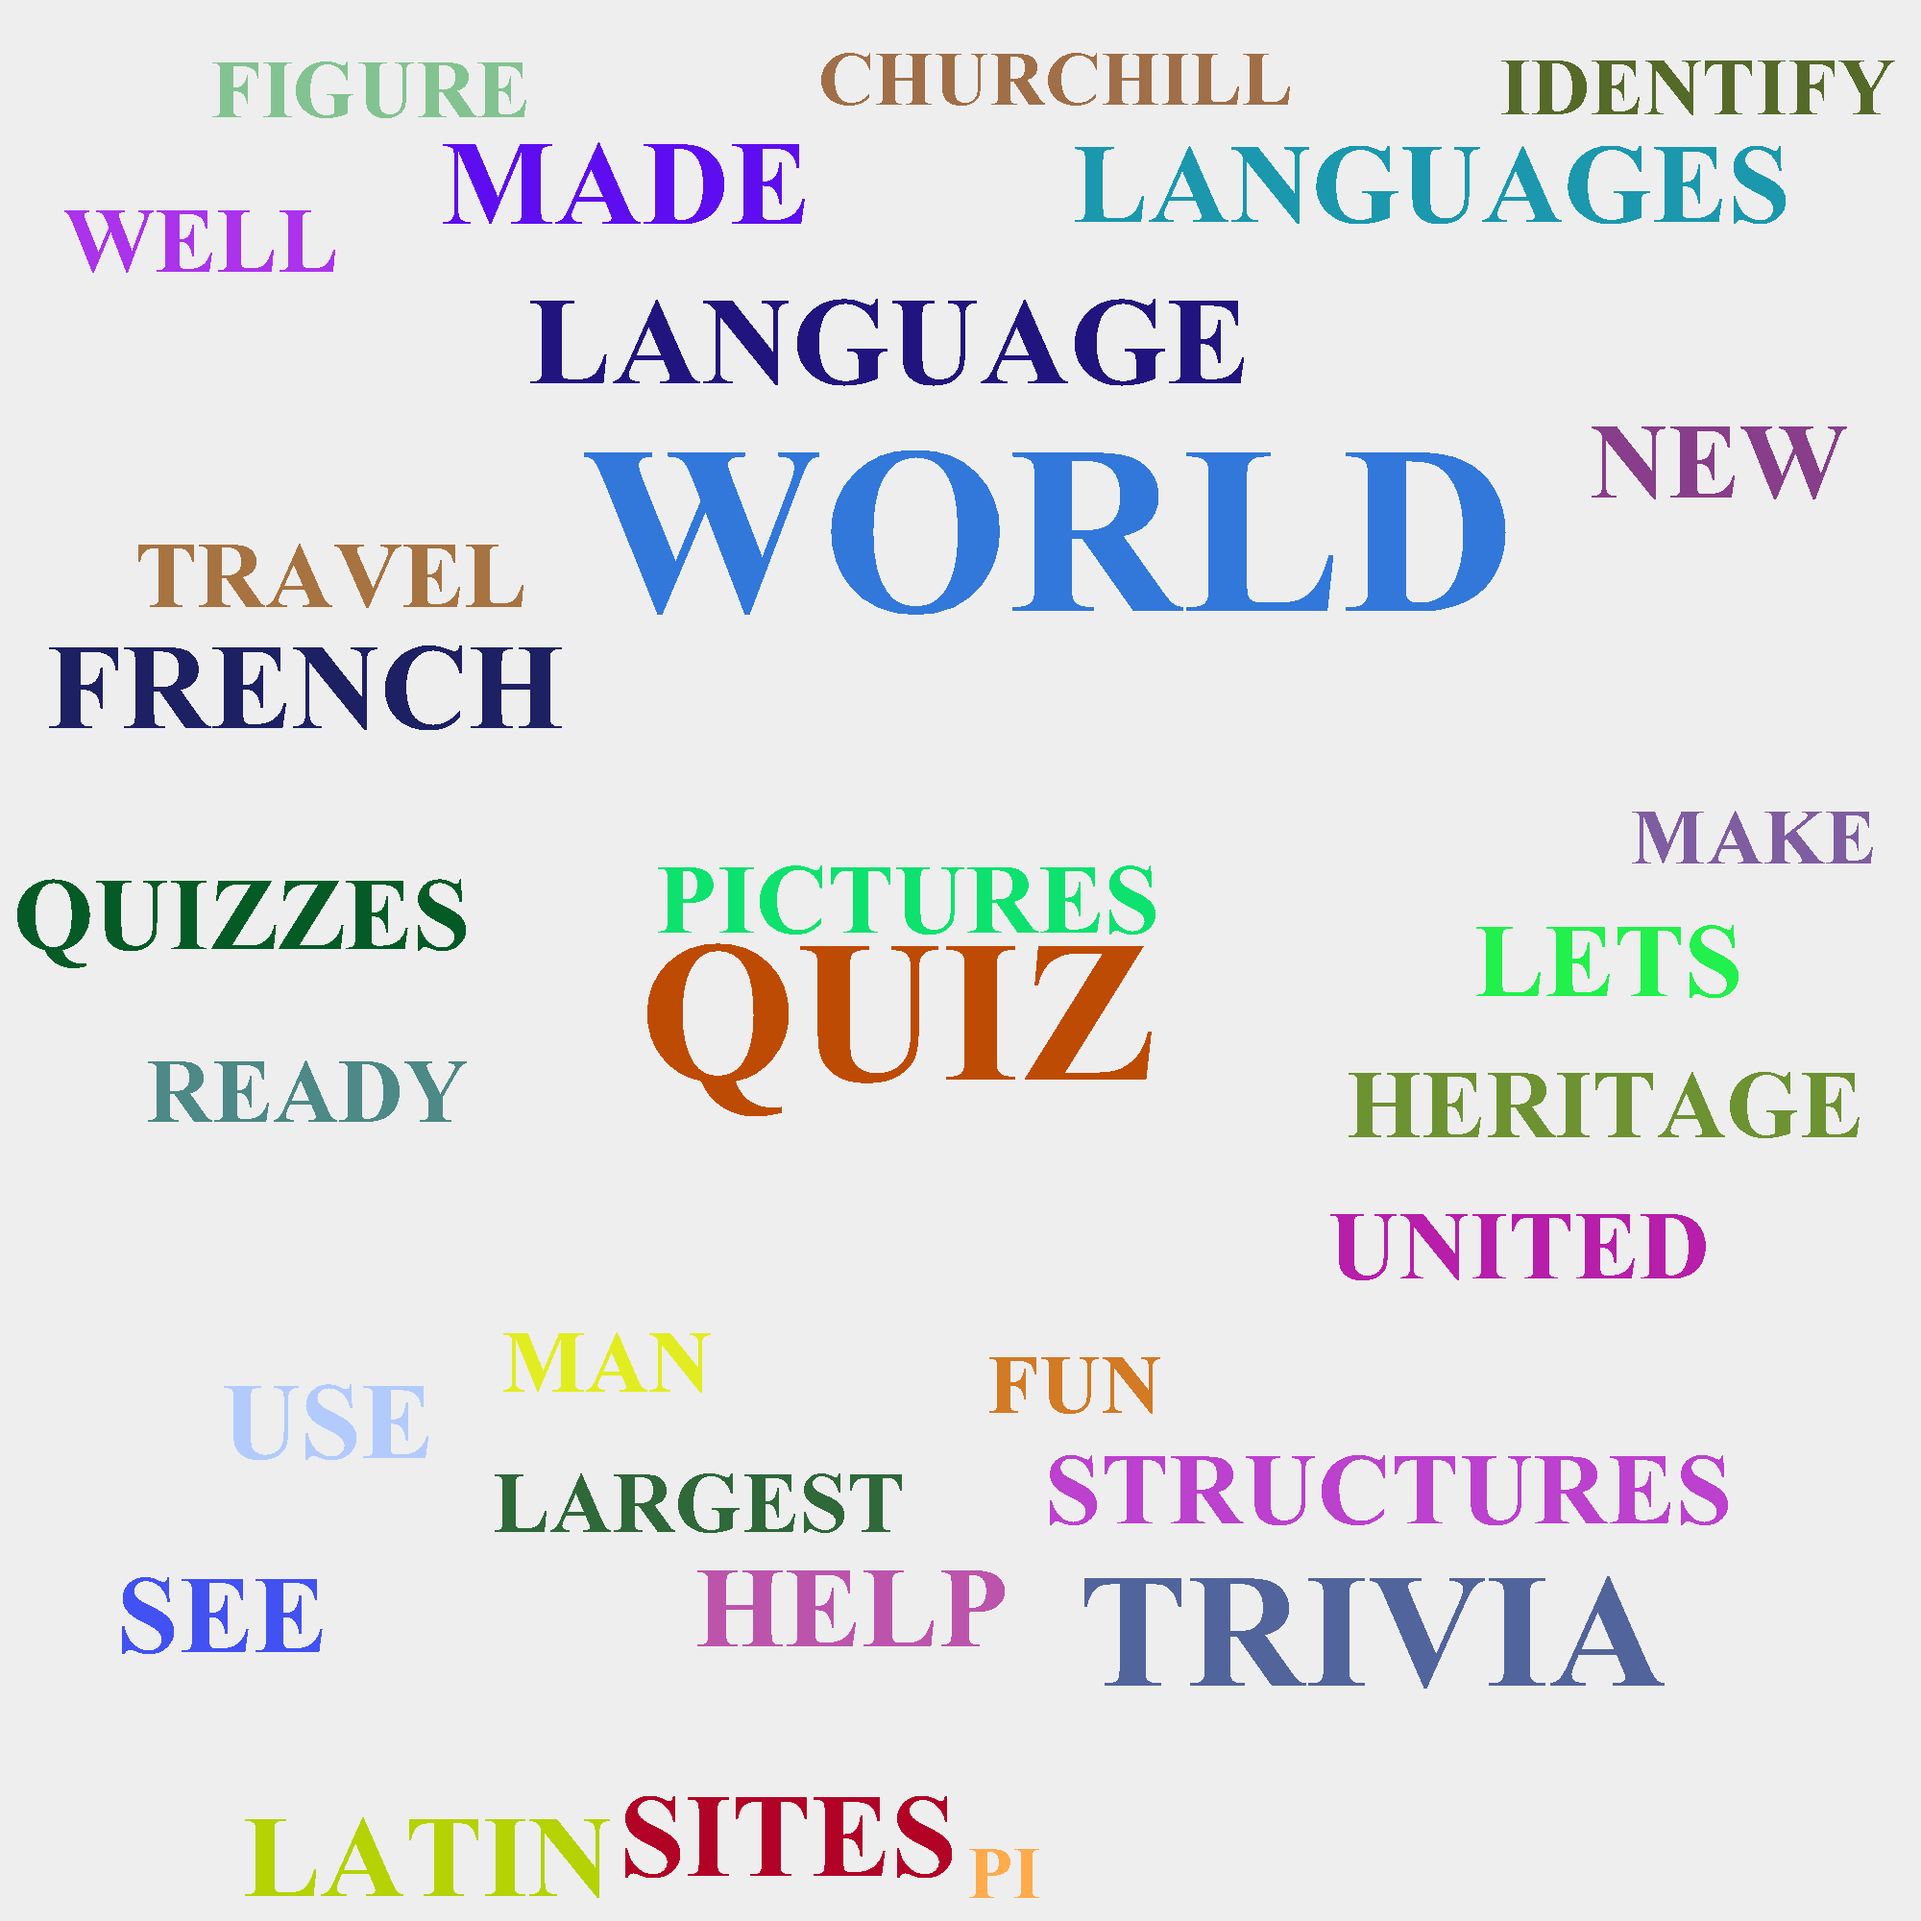
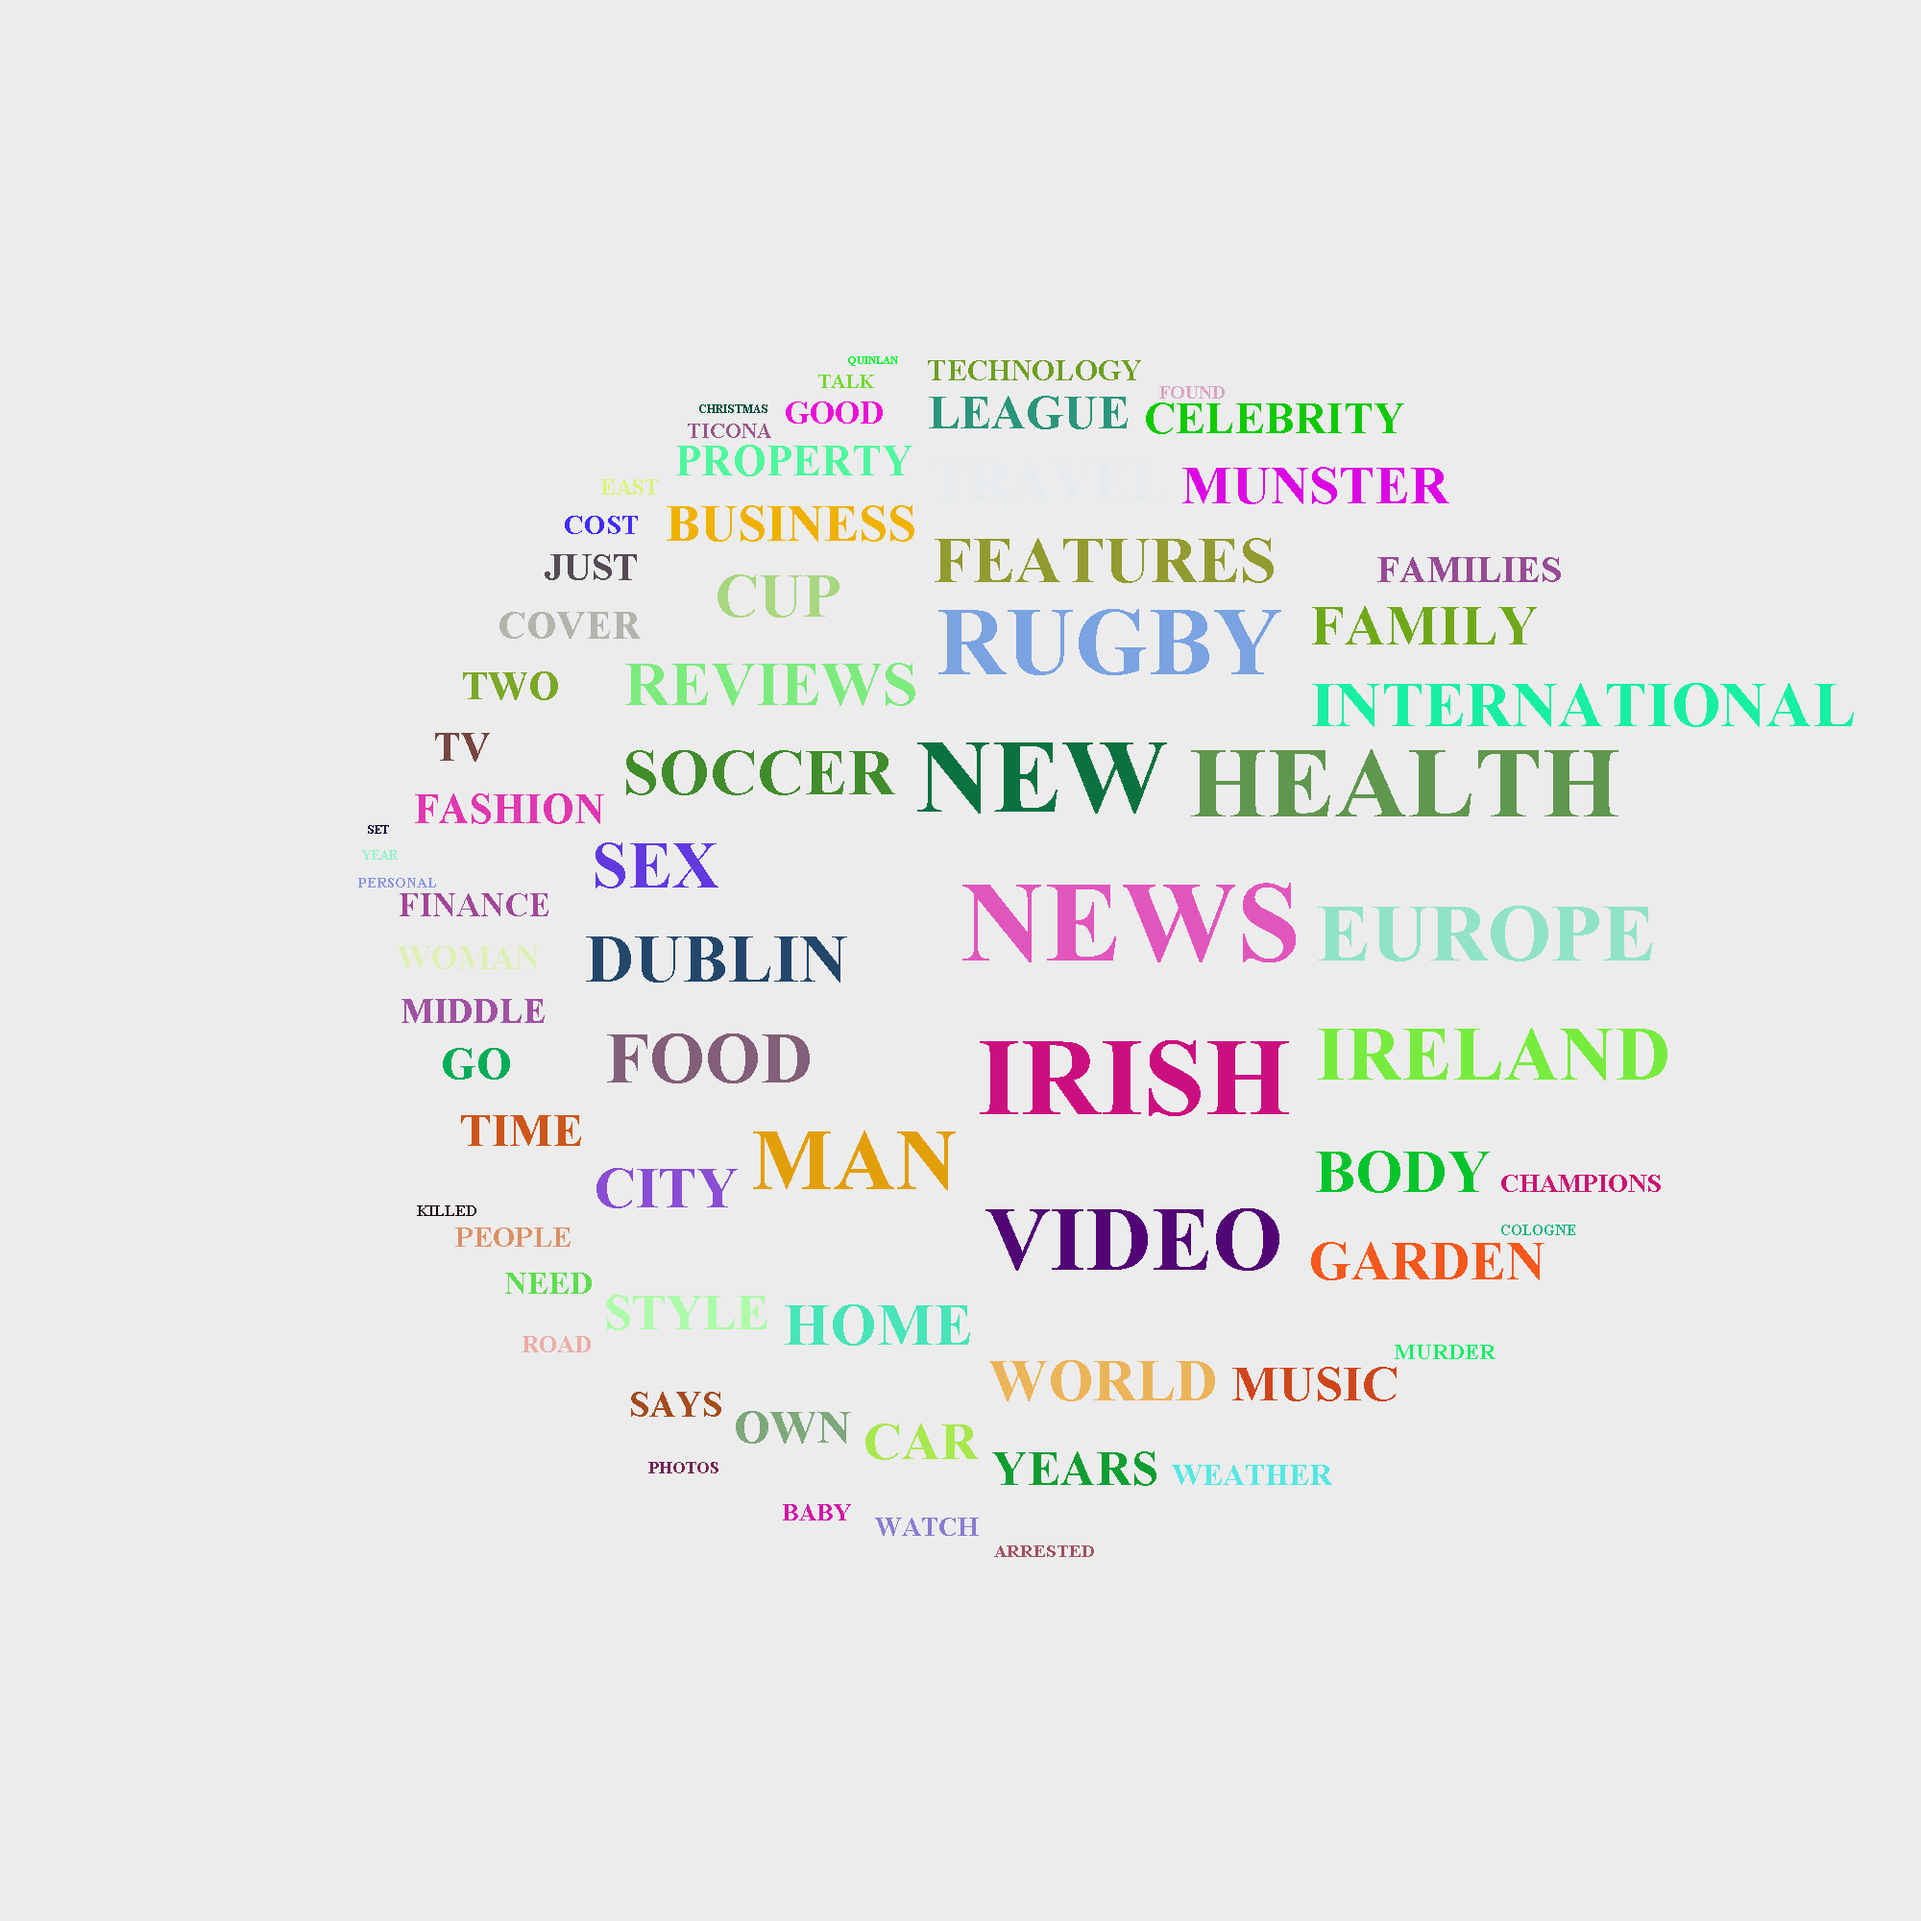
Circle wordchart

diff --git a/src/ie/gmit/sw/WordCloud.java b/src/ie/gmit/sw/WordCloud.java
@@ -12,37 +12,36 @@ import java.util.ArrayList;
 import java.util.Random;
 
 import javax.imageio.ImageIO;
-import javax.swing.plaf.synth.SynthSeparatorUI;
+
+import org.omg.CosNaming.IstringHelper;
 
 import ie.gmit.sw.words.Bounds;
 import ie.gmit.sw.words.SingleWordFactory;
-import ie.gmit.sw.words.WordType;
 import ie.gmit.sw.words.Wordable;
 
 public class WordCloud 
 {		
 	private ArrayList<Bounds> boundsList;
 	private int ImageDimension = 2000;
-	private int fontSize = 250;
-	private Color currentColor;
+	private int bufferSpace = 10;
 	
-	public WordCloud(ArrayList words) throws IOException
+	public WordCloud(ArrayList<String> words) throws IOException
 	{
 		BufferedImage image = new BufferedImage(ImageDimension, ImageDimension, BufferedImage.TYPE_4BYTE_ABGR);
 		Graphics plaingraphics = image.getGraphics();	
 		AffineTransform affinetransform = new AffineTransform();     
 		FontRenderContext frc = new FontRenderContext(affinetransform,true,true); 		
-		Font font = new Font(Font.SANS_SERIF, Font.BOLD, fontSize);
+		Font font = new Font(Font.SANS_SERIF, Font.BOLD, Globals.getInstance().getFontSize());
 				
 		boundsList = new ArrayList<Bounds>();
 		
-		plaingraphics.setColor(new Color(238,238,238));
+		plaingraphics.setColor(new Color(236,236,236));
 		plaingraphics.fillRect(0, 0, ImageDimension, ImageDimension);
 		
-		///////////////////////////////////////////////////////////////
-		
 		int wordCount = 0;
-				
+		int radius = 0;
+		float increment = 0;
+		
 		while(wordCount < Globals.getInstance().getWordLimit())
 		{
 			String currWord = (String) words.get(wordCount);
@@ -50,32 +49,43 @@ public class WordCloud
 			
 			int strWidth = (int)(font.getStringBounds(currWord, frc).getWidth());
 			int strHeight = (int)(font.getStringBounds(currWord, frc).getHeight());
-			
-			currBounds = new Bounds(strWidth,strHeight,getRandomPosition(strWidth,strHeight,ImageDimension,ImageDimension));
+						
+			currBounds = new Bounds(strWidth,strHeight,getRandomPositionCircle(radius,increment,strWidth,strHeight,ImageDimension,ImageDimension));
 			
 			while(!CheckBounds(currBounds))
 			{
-				currBounds = new Bounds(strWidth,strHeight,getRandomPosition(strWidth,strHeight,ImageDimension,ImageDimension));
-			}
+				if(increment > 360)
+				{
+					increment = 0;		
+					radius++;
+				}
+				
+				increment += 0.01;
+				
+				currBounds = new Bounds(strWidth,strHeight,getRandomPositionCircle(radius,increment,strWidth,strHeight,ImageDimension,ImageDimension));				
+			}	
 			
 			boundsList.add(currBounds);				
 			
-			Wordable word = SingleWordFactory.getInstance().CreateWord(currBounds, currWord, fontSize);	
+			Wordable word = SingleWordFactory.getInstance().CreateWord(currBounds, currWord, Globals.getInstance().getFontSize());	
 			
 			plaingraphics.setFont(word.getFont());
 			
-			plaingraphics.setColor(randomColor());
+			plaingraphics.setColor(RandomColor());
 			
 			plaingraphics.drawString(word.getText(), word.getBounds().getX(), word.getBounds().getY());	
-	
-			if(wordCount < 3)			
-				fontSize -= 40;
-			else
-				fontSize -= 2;			
-						
-			//System.out.println(word.getText() +  " : " + wordCount + " " + fontSize);
 			
+			int fSize = Globals.getInstance().getFontSize();
+			
+			if(wordCount < 10)
+				fSize -= 5;
+			else
+				fSize -= 0.2;			
+									
 			font = word.getFont();
+			
+			Globals.getInstance().setFontSize(fSize);
+			
 			++wordCount;
 		}		
 	
@@ -87,36 +97,33 @@ public class WordCloud
 	}
 	
 	private boolean CheckBounds(Bounds checkMe)
-	{			
+	{					
 		for(Bounds bound : boundsList)
 		{	
-			if(checkMe.getX() < bound.getX() + bound.getWidth() && checkMe.getX() + checkMe.getWidth() > bound.getX() && checkMe.getY() < bound.getY() + bound.getHeight() && checkMe.getHeight() + checkMe.getY() > bound.getY())
+			if(checkMe.getX() < bound.getX() + bound.getWidth() + bufferSpace && checkMe.getX() + checkMe.getWidth() + bufferSpace > bound.getX() && checkMe.getY() < bound.getY() + bound.getHeight() + bufferSpace && checkMe.getHeight() + checkMe.getY() + bufferSpace > bound.getY())
 			{
-				//System.out.println("Collision");
-				
-				return false; //collision
+				return false;
 			}			
 		}	
 		
-		return true;
+		if(checkMe.getX() + checkMe.getWidth() < ImageDimension - bufferSpace || checkMe.getY() + checkMe.getHeight() < ImageDimension - bufferSpace)
+		{
+			return true;
+		}
+		else
+			return false;
 	}
 	
-	private Bounds getRandomPosition(int wid,int hi,int pagewidth,int pageheight)
-	{
-		Random random = new Random();
+	private Bounds getRandomPositionCircle(int radius,float increment, int wid,int hi,int pagewidth,int pageheight)
+	{			
+		double angle = increment * Math.PI / 180;
+		int x = (int)((ImageDimension / 2) + radius * Math.cos(angle));
+		int y = (int)((ImageDimension / 2) + radius * Math.sin(angle));
 		
-		int x = random.nextInt(pagewidth - wid);
-		int y = random.nextInt(pageheight);
-		
-		if(y < hi)
-		{
-			y += hi;
-		}
-						
 		return new Bounds(wid,hi,x,y);		
 	}
 
-	private Color RandomColor() 
+	private Color RandomColorPreset() 
 	{		
 		Random random = new Random();
 		Color []color = {
@@ -133,14 +140,13 @@ public class WordCloud
 		return color[pos];
 	}
 	
-	private Color randomColor()
+	private Color RandomColor()
 	{
 		Random random = new Random();
 		
 		int R = random.nextInt(256);
 		int G = random.nextInt(256);
-		int B= random.nextInt(256);
-		int A=  256;
+		int B = random.nextInt(256);
 		
 		return new Color(R, G, B);
 	}

diff --git a/src/ie/gmit/sw/Globals.java b/src/ie/gmit/sw/Globals.java
@@ -11,7 +11,8 @@ public class Globals
    private String backUpStopwords = "txt/stopwords.txt";
    private String backUpWordCloud = "txt/warandpeace.txt";
    
-   private int WordLimit = 30;
+   private int WordLimit = 70;
+   private int fontSize = 120;
    
    public static Globals getInstance()
    {
@@ -22,6 +23,16 @@ public class Globals
       
       return instance;
    }
+   
+   public int getFontSize() 
+   {
+	   return fontSize;
+   }
+
+	public void setFontSize(int fontSize) 
+	{
+		this.fontSize = fontSize;
+	} 
    
    public void setIsDebug(boolean debug)
    {
